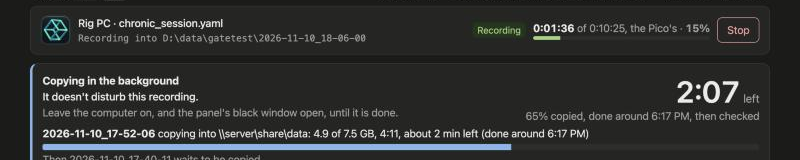
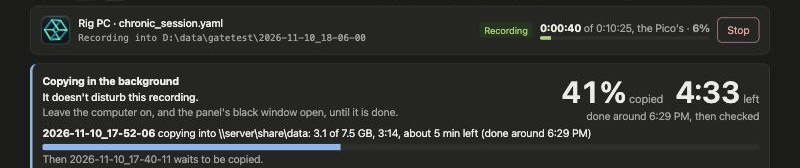
Panel: the percent done in front of the copy's time left, as big

diff --git a/campy/panelpage.py b/campy/panelpage.py
@@ -46,7 +46,7 @@ label{font-size:.9375rem;color:var(--muted)}h2{font-size:1.25rem;font-weight:500
 .bar{height:6px;background:var(--soft);border-radius:3px;overflow:hidden}.bar div{height:6px;background:var(--ok)}
 .copybar{max-width:28rem;margin:4px 0 2px}.copybar div{background:var(--accent)}
 .bgcopy{border-left:4px solid var(--accent)}.copyeta{text-align:right;line-height:1.1;flex:none;min-width:9rem}
-.copyeta .big{font-size:3rem;font-weight:600;font-variant-numeric:tabular-nums;color:var(--text)}.copyeta .big.wait{font-size:1.5rem;font-weight:500}
+.copyeta .big{font-size:3rem;font-weight:600;font-variant-numeric:tabular-nums;color:var(--text)}.copyeta .big.wait{font-size:1.5rem;font-weight:500}.copyeta .gap{margin-left:1.25rem}
 .copyeta .lab{font-size:1.125rem;color:var(--muted)}#clock b{font-variant-numeric:tabular-nums}.bgcopy .copybar{max-width:none;height:10px}.bgcopy .copybar div{height:10px}
 .err{color:var(--bad);font-size:1rem}ul{margin:.25rem 0 0;padding-left:1.25rem}li{margin:.25rem 0}
 select{font:inherit;padding:.375em .5em;border-radius:8px;border:1px solid var(--line);background:var(--card);color:var(--text);width:100%}
@@ -87,7 +87,7 @@ select{font:inherit;padding:.375em .5em;border-radius:8px;border:1px solid var(-
 <div id="bgcopy" class="card bgcopy" hidden><div class="row" style="align-items:flex-start"><div class="grow"><b id="bgcopytitle">Copying in the background</b>
   <div id="bgcopyok" style="font-weight:500"></div>
   <div class="muted">Leave the computer on, and the panel's black window open, until it is done.</div></div>
-  <div id="bgeta" class="copyeta" hidden><div><span id="bgetanum" class="big"></span> <span id="bgetalab" class="lab"></span></div><div id="bgetaend" class="muted"></div></div></div>
+  <div id="bgeta" class="copyeta" hidden><div><span id="bgetapct" class="big"></span> <span id="bgetapctlab" class="lab"></span><span id="bgetanum" class="big gap"></span> <span id="bgetalab" class="lab"></span></div><div id="bgetaend" class="muted"></div></div></div>
   <div id="bgcopytext" style="margin-top:6px"></div></div>
 
 <div id="typebox" class="card" hidden>
@@ -290,14 +290,16 @@ function followEta(j){
 }
 function paintEta(){
   const E = bgEta; $("bgeta").hidden = !E; if(!E) return;
-  let num, lab = "", end = "", wait = false;
+  // As big as the time left, in front of it: how much is done (65% copied), then the time left (2:07 left)
+  let pct = "", pctLab = "", num, lab = "", end = "", wait = false;
   if(E.phase!="copying" && E.phase!="checking"){ num = "finishing…"; wait = true; }
-  else { const p = E.pct!=null ? Math.floor(E.pct)+"% "+(E.phase=="checking" ? "checked" : "copied") : "";
-    if(E.end==null){ num = "estimating…"; wait = true; end = p || (E.phase=="checking" ? "the time left to check" : "the time left to copy"); }
+  else { if(E.pct!=null){ pct = Math.floor(E.pct)+"%"; pctLab = E.phase=="checking" ? "checked" : "copied"; }
+    if(E.end==null){ num = "estimating…"; wait = true; if(!pct) end = E.phase=="checking" ? "the time left to check" : "the time left to copy"; }
     else { num = mss(Math.max(0, (E.end - Date.now())/1000)); lab = "left";
-      end = (p ? p+", " : "")+"done around "+clockAt(E.end)+(E.phase=="checking" ? "" : ", then checked"); } }
-  const html = [num, lab, end, wait].join("|"); if(html == etaHtml) return; etaHtml = html;
-  $("bgetanum").textContent = num; $("bgetanum").className = "big"+(wait ? " wait" : ""); $("bgetalab").textContent = lab; $("bgetaend").textContent = end;
+      end = "done around "+clockAt(E.end)+(E.phase=="checking" ? "" : ", then checked"); } }
+  const html = [pct, pctLab, num, lab, end, wait].join("|"); if(html == etaHtml) return; etaHtml = html;
+  $("bgetapct").textContent = pct; $("bgetapctlab").textContent = pctLab;
+  $("bgetanum").textContent = num; $("bgetanum").className = "big"+(pct ? " gap" : "")+(wait ? " wait" : ""); $("bgetalab").textContent = lab; $("bgetaend").textContent = end;
 }
 function paint(){ paintClock(); paintEta(); }
 function render(s){

diff --git a/docs/live-tracking.md b/docs/live-tracking.md
@@ -165,7 +165,7 @@ campy-session panel <folder of configs>
 
 It opens the page in this computer's browser, and prints its address. Given a folder, it is one panel for every experiment on the rig: the page's **Experiment** list picks the config it records with, among the ones starred on the page (before any star, those with a `panel.title`), and **Show all configs** lists the rest of the folder with why any can't be used. Changing it, only while nothing records, loads that config as if the panel had been opened with it. The stars and the last pick are kept for each folder in `~/.campy/status/panel-types.json` ([Recording a session from the desktop](recording-a-session.md#pick-the-experiment)). A recording starts only when someone presses **Start recording** on the page, never on its own. Its length is the config's `recTimeInSec`. After each recording the page is ready for the next one, into a new folder. **Close the panel** at the top of the page closes it when nothing is recording, and so does Ctrl-C in its console, unless the panel holds the rig's lock (below).
 
-**Copies to another folder.** The page's **Copy each recording to** box (optional) names a folder, a network share for example. Once a recording and its other steps have ended, the panel copies its folder there, as the `copy` step does (robocopy or rsync, then every file checked byte for byte), but in the background, one recording at a time, while the next one records. The page lists each copy (waiting; copying, with the GB so far (what robocopy or rsync has written: a big file counts as it copies, not at once as it starts), a progress bar and an estimate of the time left at its average rate so far; checking, with the GB read back so far and its own time left; done; failed; the copy under way also has its time left in big numbers at the top right of the page's **Copying in the background** strip, counting down every second, with its percent done), with what the check found (**verified**, or how many files were **not the same**), and shows the last recording's as its copy step. While any copy is running or waiting, a **Copying in the background** strip under the page's header shows it in every state, during the next recording too, and the result goes into the recording's `logs/post.json` as the copy step's. The panel checks at Start that the folder can be reached, and refuses the folder the recording goes into (with a Pico, the chosen length's own `videoFolder`) or a folder inside it, also when it is the same folder by another path (a link, a network share of this disk). When the folder isn't there but the one it goes in is, the refusal comes with a **Create this folder** button, which makes that one folder (never more than the last level), and Start can be pressed again. It remembers the folder for each config (`~/.campy/status/panel_copy.json`); the box starts from the config's `post: copy:` otherwise, and an empty box copies nothing. The config's own copy step doesn't run in the panel. Under the box, **Delete each recording from this computer once its copy is checked** (off by default; the config's `post: copy: delete_after_verify: true` ticks it, and the page remembers it for each config with the folder) deletes each recording's folder here once every file of it is the same in the copy, as the `copy` step's `--delete-after-verify` does (above); the list then says **deleted here** or **kept here**, with why. A copy that fails, or a recording kept though it was to be deleted (one that didn't stop cleanly too), is also sent as an alert to the alerts' channels (`~/.campy/alerts.yaml`), since the disk then fills. **Close the panel** with copies still running waits for them, then closes by itself; **Close now, without the copies** leaves them, and each such recording's `post.log` gives the `campy-session post <folder> --only copy --to <folder>` that copies it by hand. A copy already checked, whose logs are being copied again or whose folder is being deleted, isn't left: the panel closes once it ends (seconds), so its result and its alert still go out, and Ctrl-C in its window does the same (Ctrl-C again closes at once).
+**Copies to another folder.** The page's **Copy each recording to** box (optional) names a folder, a network share for example. Once a recording and its other steps have ended, the panel copies its folder there, as the `copy` step does (robocopy or rsync, then every file checked byte for byte), but in the background, one recording at a time, while the next one records. The page lists each copy (waiting; copying, with the GB so far (what robocopy or rsync has written: a big file counts as it copies, not at once as it starts), a progress bar and an estimate of the time left at its average rate so far; checking, with the GB read back so far and its own time left; done; failed; the copy under way also has its time left in big numbers at the top right of the page's **Copying in the background** strip, with its percent done in front of it, counting down every second), with what the check found (**verified**, or how many files were **not the same**), and shows the last recording's as its copy step. While any copy is running or waiting, a **Copying in the background** strip under the page's header shows it in every state, during the next recording too, and the result goes into the recording's `logs/post.json` as the copy step's. The panel checks at Start that the folder can be reached, and refuses the folder the recording goes into (with a Pico, the chosen length's own `videoFolder`) or a folder inside it, also when it is the same folder by another path (a link, a network share of this disk). When the folder isn't there but the one it goes in is, the refusal comes with a **Create this folder** button, which makes that one folder (never more than the last level), and Start can be pressed again. It remembers the folder for each config (`~/.campy/status/panel_copy.json`); the box starts from the config's `post: copy:` otherwise, and an empty box copies nothing. The config's own copy step doesn't run in the panel. Under the box, **Delete each recording from this computer once its copy is checked** (off by default; the config's `post: copy: delete_after_verify: true` ticks it, and the page remembers it for each config with the folder) deletes each recording's folder here once every file of it is the same in the copy, as the `copy` step's `--delete-after-verify` does (above); the list then says **deleted here** or **kept here**, with why. A copy that fails, or a recording kept though it was to be deleted (one that didn't stop cleanly too), is also sent as an alert to the alerts' channels (`~/.campy/alerts.yaml`), since the disk then fills. **Close the panel** with copies still running waits for them, then closes by itself; **Close now, without the copies** leaves them, and each such recording's `post.log` gives the `campy-session post <folder> --only copy --to <folder>` that copies it by hand. A copy already checked, whose logs are being copied again or whose folder is being deleted, isn't left: the panel closes once it ends (seconds), so its result and its alert still go out, and Ctrl-C in its window does the same (Ctrl-C again closes at once).
 
 On the Dell Pro Tower Plus (8 cameras at 60 fps, AV1 on Quick Sync, 9 November 2026), a 2.1 GB recording copied to a network share at 21 MB/s, during another recording. That recording's frames reached the computer as punctually during the copy as outside it: 99% within 0.24 ms of their time and the latest 0.8 ms, with no frame dropped and no warning. Copying while campy-live tracks, on the same computer the same day (3 emulated cameras at 60 fps recorded with Quick Sync, the 5-mouse models on its RTX A2000, 120 s each, under the rig lock): every one of 7,200 sets was tracked, none skipped, with or without a copy. Alone, before and after, a set took 6.9/7.2 and 7.1/7.4 ms (p50/p99) and reached 3D in 9.3/10.5 and 9.5/10.6 ms; with a 2.1 GB copy running, 7.0/7.4 and 9.4/10.9 ms. In the 10-second windows the copy overlapped, the p99 to 3D was 11.1-11.3 ms instead of 10.5-10.9: about 0.5 ms, and the p50 didn't move. That copy went from disk to disk on the computer at 67 MB/s, three times the network share's rate, so a copy to a share loads it less.
 

diff --git a/docs/recording-a-session.md b/docs/recording-a-session.md
@@ -109,7 +109,7 @@ Below them, under **Steps after the recording**, the computer:
 
 Each step turns green when done (grey **skipped** when it has nothing to do). The top of the page then says **Ready to record**: you can start the next recording.
 
-**Copies.** With a folder in **Copy each recording to**, the page then lists the recording under **Copies**, and as the **Copy** step under **Steps after the recording**: waiting, copying (how many GB so far, with a progress bar and about how long is left, at the rate so far, with the time it should be done), checking (how many GB read back so far, and about how long is left), done, or failed with the reason. The GB so far are what the copy program has really written, so a big file (a SpikeGLX `.ap.bin`, for example) counts little by little as it copies, not all at once as it starts; a copy whose number keeps rising is still going. Beside it, **verified** means every file is the same in the copy, byte for byte; **1 not the same** (or more) means a file differs or is missing there, and the copy failed: the recording stays on this computer, and an alert is sent. With the delete box ticked, **deleted here** or **kept here** says what became of the recording on this computer; kept says why. Copies go one at a time, so a recording waits while the one before it copies. You can start the next recording right away: copying doesn't disturb it. While a copy is running or waiting, a **Copying in the background** strip at the top of the page shows it, with its progress bar and time left, and says you can start a new recording; it stays during the next recording, until the last copy is done. Its top right corner shows the time left in big numbers, readable from across the room (`2:07 left`), counting down every second, with how much is done and the time it should be done under it (`65% copied, done around 6:17 PM, then checked`). That is the copy running now: copies waiting behind it come after, and the byte-for-byte check after the copy gets its own time left once it starts (`checked`). Until there is a rate to go by (the first few seconds of each), it says **estimating…**. The time left follows the copy's average rate so far, and eases toward each new estimate rather than jumping. Leave the computer on and the panel's black window open until then. On the 8-camera rig, a 2.1 GB recording (about 15 minutes) took under 2 minutes to copy to the network share. On the ChronicRecord rig, a 7.6 GB recording (most of it one 5.5 GB SpikeGLX file) took about 7 minutes to copy to a network share (about 17 MB/s), the page's bar and time left following it the whole way. Checking reads it all back, so expect it to take about as long again.
+**Copies.** With a folder in **Copy each recording to**, the page then lists the recording under **Copies**, and as the **Copy** step under **Steps after the recording**: waiting, copying (how many GB so far, with a progress bar and about how long is left, at the rate so far, with the time it should be done), checking (how many GB read back so far, and about how long is left), done, or failed with the reason. The GB so far are what the copy program has really written, so a big file (a SpikeGLX `.ap.bin`, for example) counts little by little as it copies, not all at once as it starts; a copy whose number keeps rising is still going. Beside it, **verified** means every file is the same in the copy, byte for byte; **1 not the same** (or more) means a file differs or is missing there, and the copy failed: the recording stays on this computer, and an alert is sent. With the delete box ticked, **deleted here** or **kept here** says what became of the recording on this computer; kept says why. Copies go one at a time, so a recording waits while the one before it copies. You can start the next recording right away: copying doesn't disturb it. While a copy is running or waiting, a **Copying in the background** strip at the top of the page shows it, with its progress bar and time left, and says you can start a new recording; it stays during the next recording, until the last copy is done. Its top right corner shows how much is done and the time left in big numbers, readable from across the room (`41% copied  4:33 left`), the time left counting down every second, and under them the time it should be done (`done around 6:29 PM, then checked`). That is the copy running now: copies waiting behind it come after, and the byte-for-byte check after the copy gets its own time left once it starts (`checked`). Until there is a rate to go by (the first few seconds of each), it says **estimating…**. The time left follows the copy's average rate so far, and eases toward each new estimate rather than jumping. Leave the computer on and the panel's black window open until then. On the 8-camera rig, a 2.1 GB recording (about 15 minutes) took under 2 minutes to copy to the network share. On the ChronicRecord rig, a 7.6 GB recording (most of it one 5.5 GB SpikeGLX file) took about 7 minutes to copy to a network share (about 17 MB/s), the page's bar and time left following it the whole way. Checking reads it all back, so expect it to take about as long again.
 
 ![The top of the page during a recording, with fake data: the recording's time and percent beside Recording, and the background copy's time left in big numbers at the top right](images/panel-copy-time-left.png)
 
